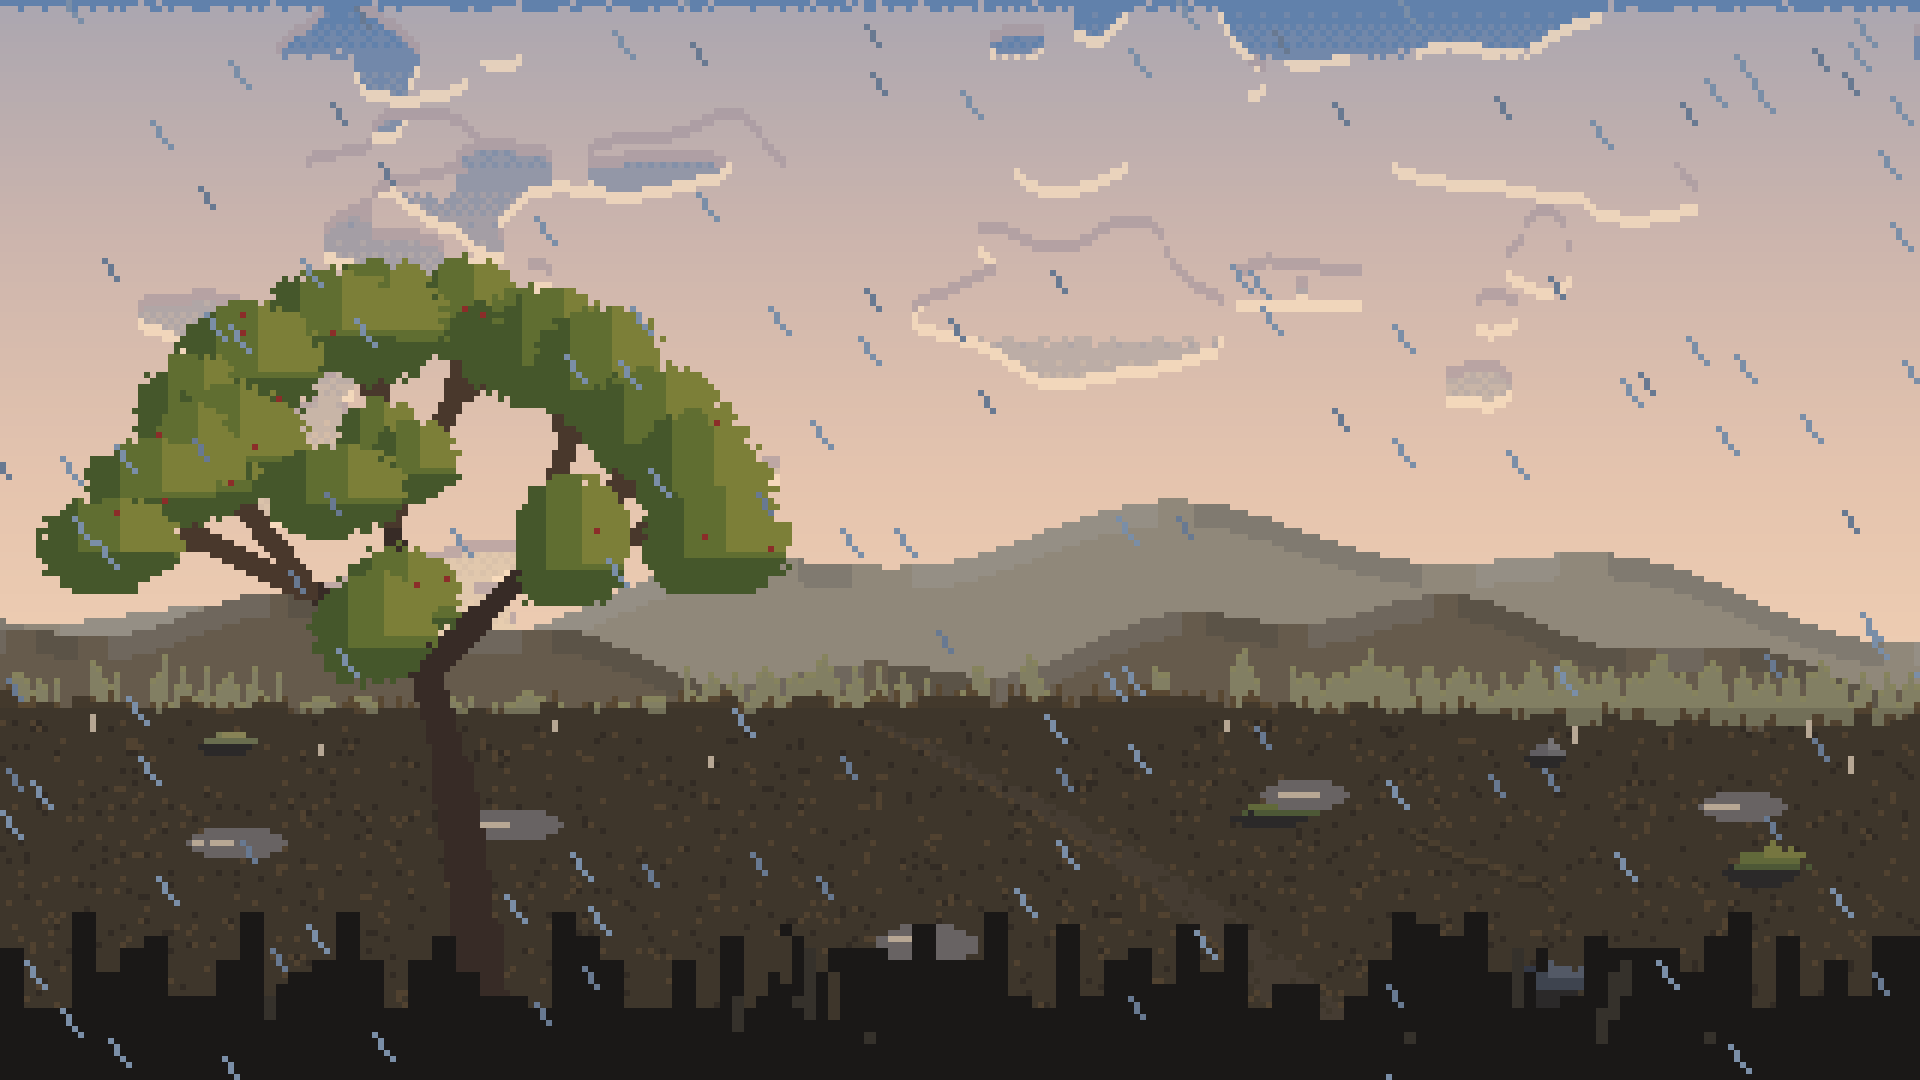
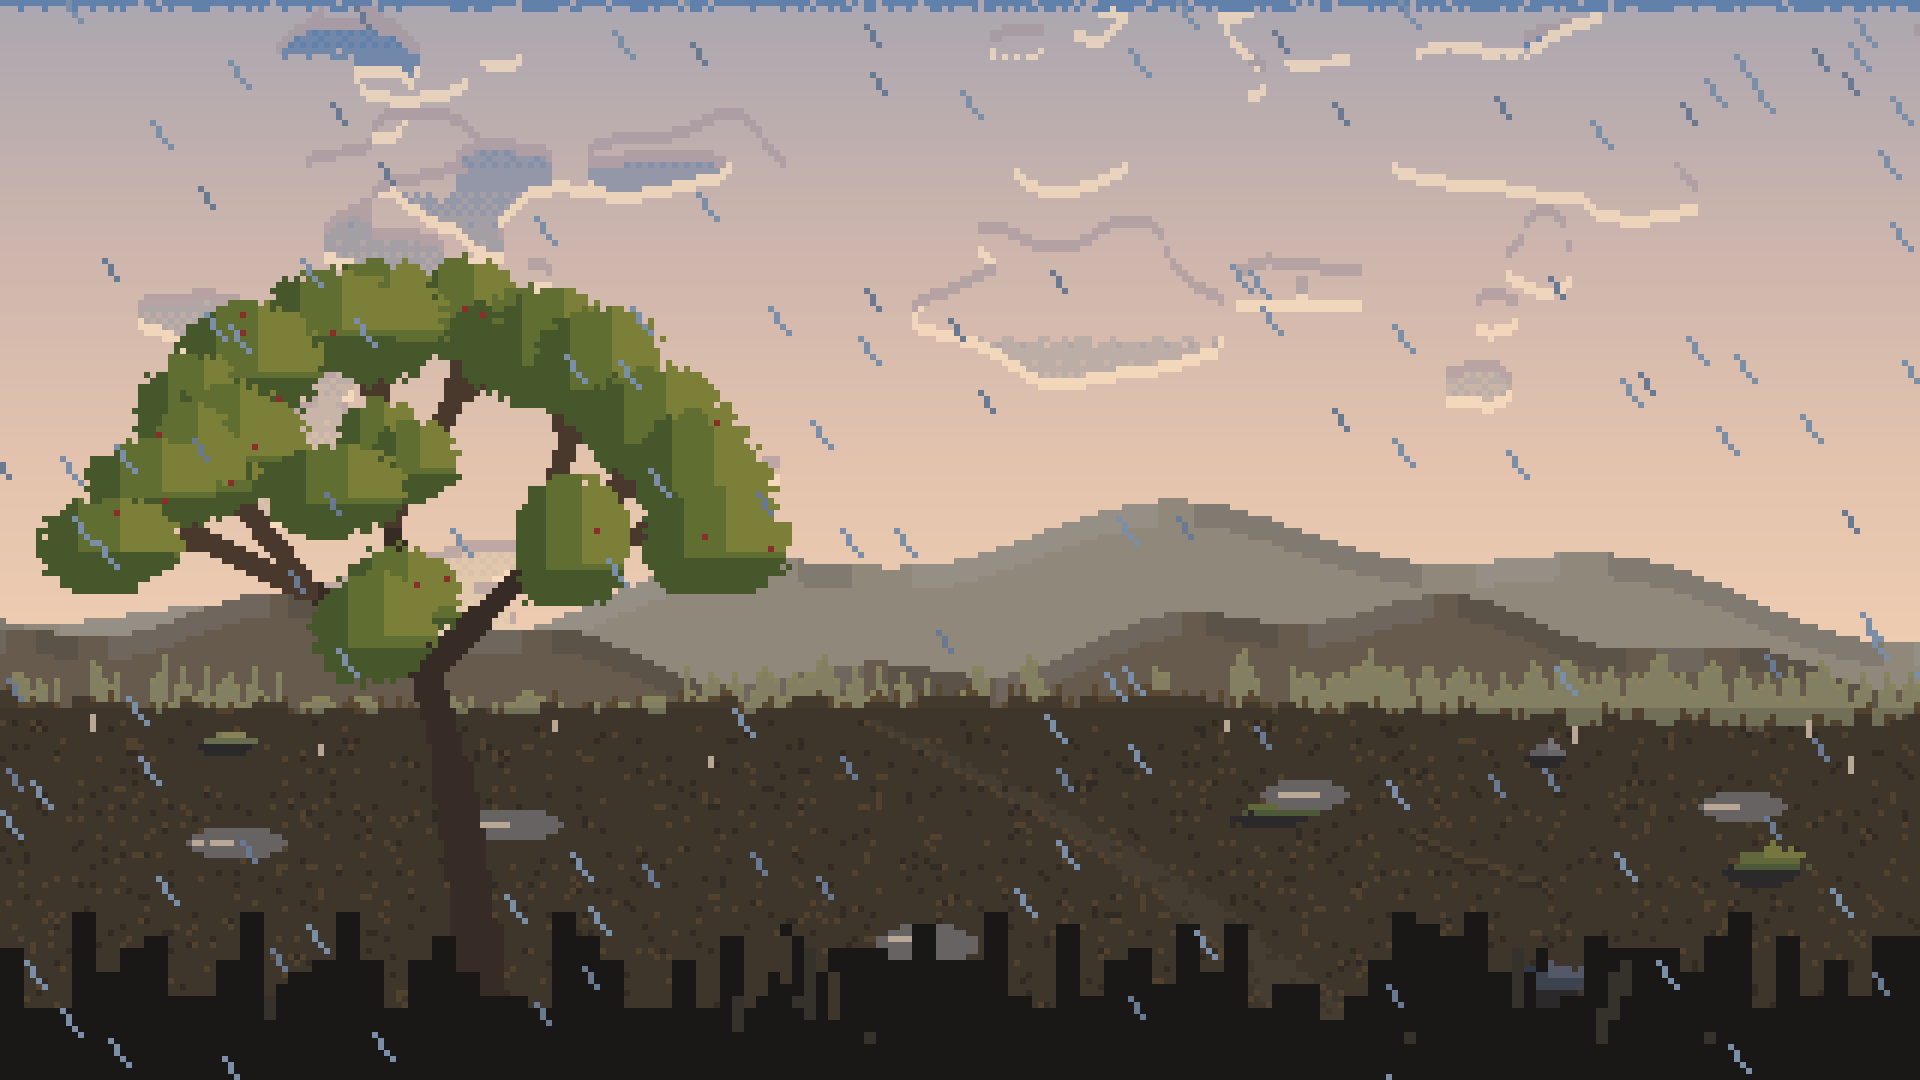
feat: северное сияние по реальному Kp
Добавляет в сцену событие, а не режим: при магнитной буре на высоких широтах
в небе появляется аврора.

Данные: NOAA SWPC отдаёт планетарный Kp без ключа и с CORS. fetchKp ходит
через общий fetchJson (таймаут, один ретрай), lastKp берёт последнюю строку
трёхчасового ряда, понимает оба регистра поля и зажимает 0…9. Контроллер
спрашивает Kp при старте и раз в 30 минут; ошибка сети ничего не ломает —
сияния просто нет. ?kp=7 подменяет значение для демо и скриншотов.

Модель: граница овала 67° − 2.6°·Kp (Kp 0 — 67°, Kp 5 — 54°, Kp 9 — 43°),
яркость растёт с удалением от неё к полюсу. Гасят сияние сумерки (солнце
−3…−9°) и облачность до −90 %. Формула одна на оба полушария: в южном это
aurora australis.

Рендер: лента с висящими вниз лучами, две волны разной длины «дышат» во
времени, лучи растворяются дизерингом Байера. Первая версия рисовала луч
в каждом столбце — получилась «матрица дождя»; теперь лучи разреженные,
а кромка ленты светится ярче. Два цвета палитры с примесью ночи; сияние
над звёздами и под облаками — они его и закрывают.

Golden: добавлен m15-aurora (Мурманск, полярная ночь, Kp 7), витринный кадр
hero-aurora. Попутно перегенерированы hero-кадры с облаками: у них появился
четвёртый слой из M13.

diff --git a/src/state/controller.js b/src/state/controller.js
@@ -3,6 +3,7 @@
 
 import { STORAGE_KEYS, WEATHER } from '../config.js';
 import { fetchWeather as defaultFetchWeather } from '../api/weather.js';
+import { fetchKp as defaultFetchKp } from '../api/aurora.js';
 import { readJson, writeJson } from './storage.js';
 import {
   isValidPlace,
@@ -36,6 +37,8 @@ export function readCachedStation(nowMs = Date.now()) {
 export function createWeatherController(options = {}) {
   const {
     fetchWeather = defaultFetchWeather,
+    fetchKp = defaultFetchKp,
+    kpOverride = null,
     resolvePlace = defaultResolvePlace,
     savePlace = defaultSavePlace,
     readCache = () => readCachedStation(),
@@ -62,12 +65,33 @@ export function createWeatherController(options = {}) {
     lastWorldBuild: 0,
     lastRainAtMs: 0,
     lastRainIntensity: 0,
+    kp: kpOverride ?? 0,
     failures: 0,
     demoMode: false,
   };
 
   let refreshTimer = null;
   let retryTimer = null;
+  let auroraTimer = null;
+
+  const AURORA_REFRESH_MS = 30 * 60_000;
+
+  /** Kp нужен только сиянию: ошибка сети здесь ничего не ломает. */
+  async function loadAurora() {
+    if (kpOverride !== null) {
+      state.kp = kpOverride;
+      return;
+    }
+
+    const result = await fetchKp();
+    if (!result.ok) return;
+
+    if (result.kp !== state.kp) {
+      state.kp = result.kp;
+      // Мир пересоберётся в ближайшую минуту — сияние появится или погаснет.
+      state.lastWorldBuild = 0;
+    }
+  }
 
   function clearRetry() {
     if (!retryTimer) return;
@@ -104,6 +128,7 @@ export function createWeatherController(options = {}) {
     const world = buildWorldState(station, at, {
       sinceRainMin: sinceRainMin(at),
       lastRainIntensity: state.lastRainIntensity,
+      kp: state.kp,
     });
     state.lastWorldBuild = at;
 
@@ -159,6 +184,11 @@ export function createWeatherController(options = {}) {
     refreshTimer = setInterval(() => {
       if (!isHidden()) loadWeather();
     }, WEATHER.refreshMs);
+
+    clearInterval(auroraTimer);
+    auroraTimer = setInterval(() => {
+      if (!isHidden()) loadAurora();
+    }, AURORA_REFRESH_MS);
   }
 
   async function selectPlace(place) {
@@ -178,6 +208,7 @@ export function createWeatherController(options = {}) {
 
   function startDemo({ place, atMs, overrides }) {
     state.demoMode = true;
+    // В демо Kp приходит из сценария (?kp=7), сеть не трогаем.
     const station = demoStation(place, { atMs, weather: overrides });
     state.place = station.place;
     onPlace(station.place);
@@ -197,6 +228,7 @@ export function createWeatherController(options = {}) {
     const cached = readCache();
     if (cached && samePlace(cached.place, place)) applyStation(cached, 'cache');
 
+    loadAurora();
     await loadWeather();
     scheduleRefresh();
   }
@@ -216,12 +248,15 @@ export function createWeatherController(options = {}) {
     return buildWorldState(state.station, at, {
       sinceRainMin: sinceRainMin(at),
       lastRainIntensity: state.lastRainIntensity,
+      kp: state.kp,
     });
   }
 
   function dispose() {
     clearInterval(refreshTimer);
     refreshTimer = null;
+    clearInterval(auroraTimer);
+    auroraTimer = null;
     clearRetry();
   }
 

diff --git a/src/render/aurora.js b/src/render/aurora.js
@@ -1,0 +1,44 @@
+// Полярное сияние: лента с висящими вниз лучами. Как и всё в сцене, кадр
+// детерминирован: изгиб и яркость — функции времени, сида и силы сияния.
+
+import { HORIZON_Y } from '../config.js';
+import { Surface, bayerThreshold } from './surface.js';
+
+/**
+ * @param {import('./surface.js').Surface} surface
+ * @param {{strength: number, palette: object, timeMs: number, seed?: number,
+ *          horizonY?: number}} options
+ */
+export function drawAurora(surface, { strength, palette, timeMs, seed = 0, horizonY = HORIZON_Y }) {
+  if (strength < 0.04 || !palette?.aurora) return;
+
+  const core = palette.aurora.core;
+  const glow = palette.aurora.glow;
+  const seconds = timeMs / 1000;
+  const width = surface.width;
+  const limitY = horizonY - 8;
+
+  for (let x = 0; x < width; x += 1) {
+    // Не каждый столбец — луч: сплошная стена читается как «матрица», а не как сияние.
+    const density = Surface.noise(x, 2, seed + 23);
+    if (density < 0.3) continue;
+
+    // Лента медленно дышит и изгибается: две волны разной длины дают «ткань».
+    const wave = Math.sin(x / 40 + seconds * 0.16) * 9 + Math.sin(x / 13 - seconds * 0.09) * 3.5;
+    const baseY = Math.round(10 + wave + Surface.noise(x, 5, seed + 3) * 7);
+    const rayLen = Math.round((16 + Surface.noise(x, 9, seed + 11) * 26) * (0.45 + strength * 0.55));
+
+    for (let y = baseY; y < Math.min(limitY, baseY + rayLen); y += 1) {
+      const depth = (y - baseY) / Math.max(1, rayLen);
+      // К низу луч растворяется; дизеринг делает это пиксельно честно.
+      const alpha = strength * (1 - depth) ** 2.2 * (0.55 + density * 0.45);
+      if (bayerThreshold(x, y) >= alpha) continue;
+      surface.pixel(x, y, depth < 0.3 ? core : glow);
+    }
+
+    // Кромка ленты: у настоящего сияния она ярче и резче остального.
+    if (strength > 0.3 && bayerThreshold(x, baseY) < strength * 0.85) {
+      surface.pixel(x, baseY, core);
+    }
+  }
+}

diff --git a/src/model/aurora.js b/src/model/aurora.js
@@ -1,0 +1,36 @@
+// Видимость полярного сияния: планетарный Kp, широта места, темнота неба и облачность.
+// Чистая функция — тестируется в Node без DOM. Одна и та же формула работает
+// для обоих полушарий: в южном это aurora australis, зеркальная по широте.
+
+const clamp01 = (value) => Math.min(1, Math.max(0, value));
+
+/**
+ * Граница аврорального овала: каждый балл Kp спускает сияние примерно на 2.6°
+ * к экватору (Kp 0 — 67°, Kp 5 — 54°, Kp 9 — 43°). Числа эмпирические:
+ * овал — не окружность, но для «видно/не видно» этого достаточно.
+ * @param {number} kp
+ * @returns {number} широта в градусах
+ */
+export function auroraEdgeLat(kp) {
+  return 67 - Math.max(0, Math.min(9, kp)) * 2.6;
+}
+
+/**
+ * @param {{kp?: number, lat?: number, sunAltitudeDeg?: number, cloudPct?: number}} input
+ * @returns {number} 0…1 — насколько ярко рисовать сияние
+ */
+export function auroraStrength({ kp = 0, lat = 0, sunAltitudeDeg = 0, cloudPct = 0 } = {}) {
+  if (!(kp > 0) || !Number.isFinite(lat)) return 0;
+
+  const margin = Math.abs(lat) - auroraEdgeLat(kp);
+  if (margin < -3) return 0;
+
+  // Чем ближе к полюсу от границы овала, тем ярче и выше занавес.
+  const place = clamp01((margin + 3) / 9);
+  // Сияние видно только в темноте: сумерки его гасят.
+  const dark = clamp01((-sunAltitudeDeg - 3) / 6);
+  // Облака закрывают небо почти полностью, но не целиком.
+  const clear = clamp01(1 - (cloudPct / 100) * 0.9);
+
+  return clamp01(place * dark * clear);
+}

diff --git a/src/api/aurora.js b/src/api/aurora.js
@@ -1,0 +1,39 @@
+// Планетарный Kp-индекс: NOAA SWPC, без ключа и с CORS.
+// Сиянию достаточно одного запроса раз в полчаса; погода от него не зависит,
+// поэтому ошибка здесь не должна ничего ломать — просто нет сияния.
+
+import { fetchJson } from './http.js';
+
+export const KP_URL = 'https://services.swpc.noaa.gov/products/noaa-planetary-k-index.json';
+
+/**
+ * Последний Kp из ответа SWPC. Ответ — массив трёхчасовых строк,
+ * последняя строка самая свежая; иногда поле приходит в нижнем регистре.
+ * @param {unknown} rows
+ * @returns {number|null}
+ */
+export function lastKp(rows) {
+  if (!Array.isArray(rows) || rows.length === 0) return null;
+
+  for (let index = rows.length - 1; index >= 0; index -= 1) {
+    const row = rows[index];
+    const value = Number(row?.Kp ?? row?.kp);
+    if (Number.isFinite(value)) return Math.max(0, Math.min(9, value));
+  }
+
+  return null;
+}
+
+/**
+ * @param {{timeoutMs?: number}} [options]
+ * @returns {Promise<{ok: true, kp: number} | {ok: false, reason: string}>}
+ */
+export async function fetchKp(options = {}) {
+  const result = await fetchJson(KP_URL, { retries: 1, ...options });
+  if (!result.ok) return result;
+
+  const kp = lastKp(result.data);
+  if (kp === null) return { ok: false, reason: 'shape' };
+
+  return { ok: true, kp };
+}

diff --git a/src/render/scene.js b/src/render/scene.js
@@ -7,6 +7,8 @@ import { drawStars, drawMilkyWay } from './sky.js';
 import { drawSun, drawMoon, celestialPoint } from './celestial.js';
 import { createCloudLayers, drawClouds } from './clouds.js';
 import { drawHorizonHaze, drawNearForeground } from './landscape.js';
+import { drawAurora } from './aurora.js';
+import { auroraStrength } from '../model/aurora.js';
 import {
   blitLandscape,
   clearLayerCache,
@@ -94,6 +96,14 @@ export function renderScene(surface, world, atMs = Date.now(), animMs = atMs) {
   if (known) {
     drawMilkyWay(surface, { palette, starOpacity: palette.starOpacity, horizonY });
     drawStars(surface, { palette, starOpacity: palette.starOpacity, timeMs: animMs, horizonY });
+
+    // Сияние: над звёздами, но под облаками — они его и закрывают.
+    const kp = world.aurora?.kp ?? 0;
+    const aurora = known
+      ? auroraStrength({ kp, lat, sunAltitudeDeg: sun.altitudeDeg, cloudPct })
+      : 0;
+    if (aurora > 0) drawAurora(surface, { strength: aurora, palette, timeMs: animMs, seed, horizonY });
+
     drawSun(surface, { ...sunPoint, palette, altitudeDeg: sun.altitudeDeg });
 
     const moonPoint = celestialPoint(surface, moon.hourAngleDeg, moon.altitudeDeg, horizonY);

diff --git a/src/model/palette.js b/src/model/palette.js
@@ -167,6 +167,11 @@ export function scenePalette({
     starOpacity: neutral ? 0 : clamp01((-altitudeDeg - 4) / 10) * (1 - clouds * 0.85),
     /** Иней: холодный белёсый налёт на ветвях и траве. */
     rime: shade(hexColor('#dfeefb'), Math.max(0.35, light)),
+    /** Сияние светит само, но в палитру ночи его надо вписать — отсюда примесь NIGHT. */
+    aurora: {
+      core: mixColor(hexColor('#a7ffd0'), NIGHT, 0.12),
+      glow: mixColor(hexColor('#2fc7a6'), NIGHT, 0.26),
+    },
     /** Дымка у горизонта: теплеет к рассвету/закату и становится толще. */
     haze: mixColor(applyTint(base.haze, tint), hexColor('#ffb277'), hazeWarmth * 0.45),
     hazeSpan: Math.round(2 + 7 * hazeWarmth),

diff --git a/src/state/world.js b/src/state/world.js
@@ -79,6 +79,10 @@ export function buildWorldState(station, atMs = Date.now(), memory = {}) {
       polar: times.polar,
       daylightSeconds: times.daylightSeconds || daily.daylightSeconds || 0,
     },
+    aurora: {
+      /** Планетарный Kp: 0 — сияния нет, 9 — максимум. */
+      kp: Math.max(0, Math.min(9, Number(memory.kp) || 0)),
+    },
     derived: {
       hemisphere,
       /** День/ночь — по астрономии, а не по флагу провайдера. */

diff --git a/src/main.js b/src/main.js
@@ -89,6 +89,7 @@ const controller = createWeatherController({
   sceneNow,
   isHidden: () => document.hidden,
   getLang: () => lang,
+  kpOverride: Number.isFinite(numberParam(params, 'kp', NaN)) ? numberParam(params, 'kp', 0) : null,
   onPlace: (place) => hud.setPlace(place),
   onStation: (station, meta) => hud.setStation(station, meta),
   onWorld: (world, duration) => setWorld(world, duration),
